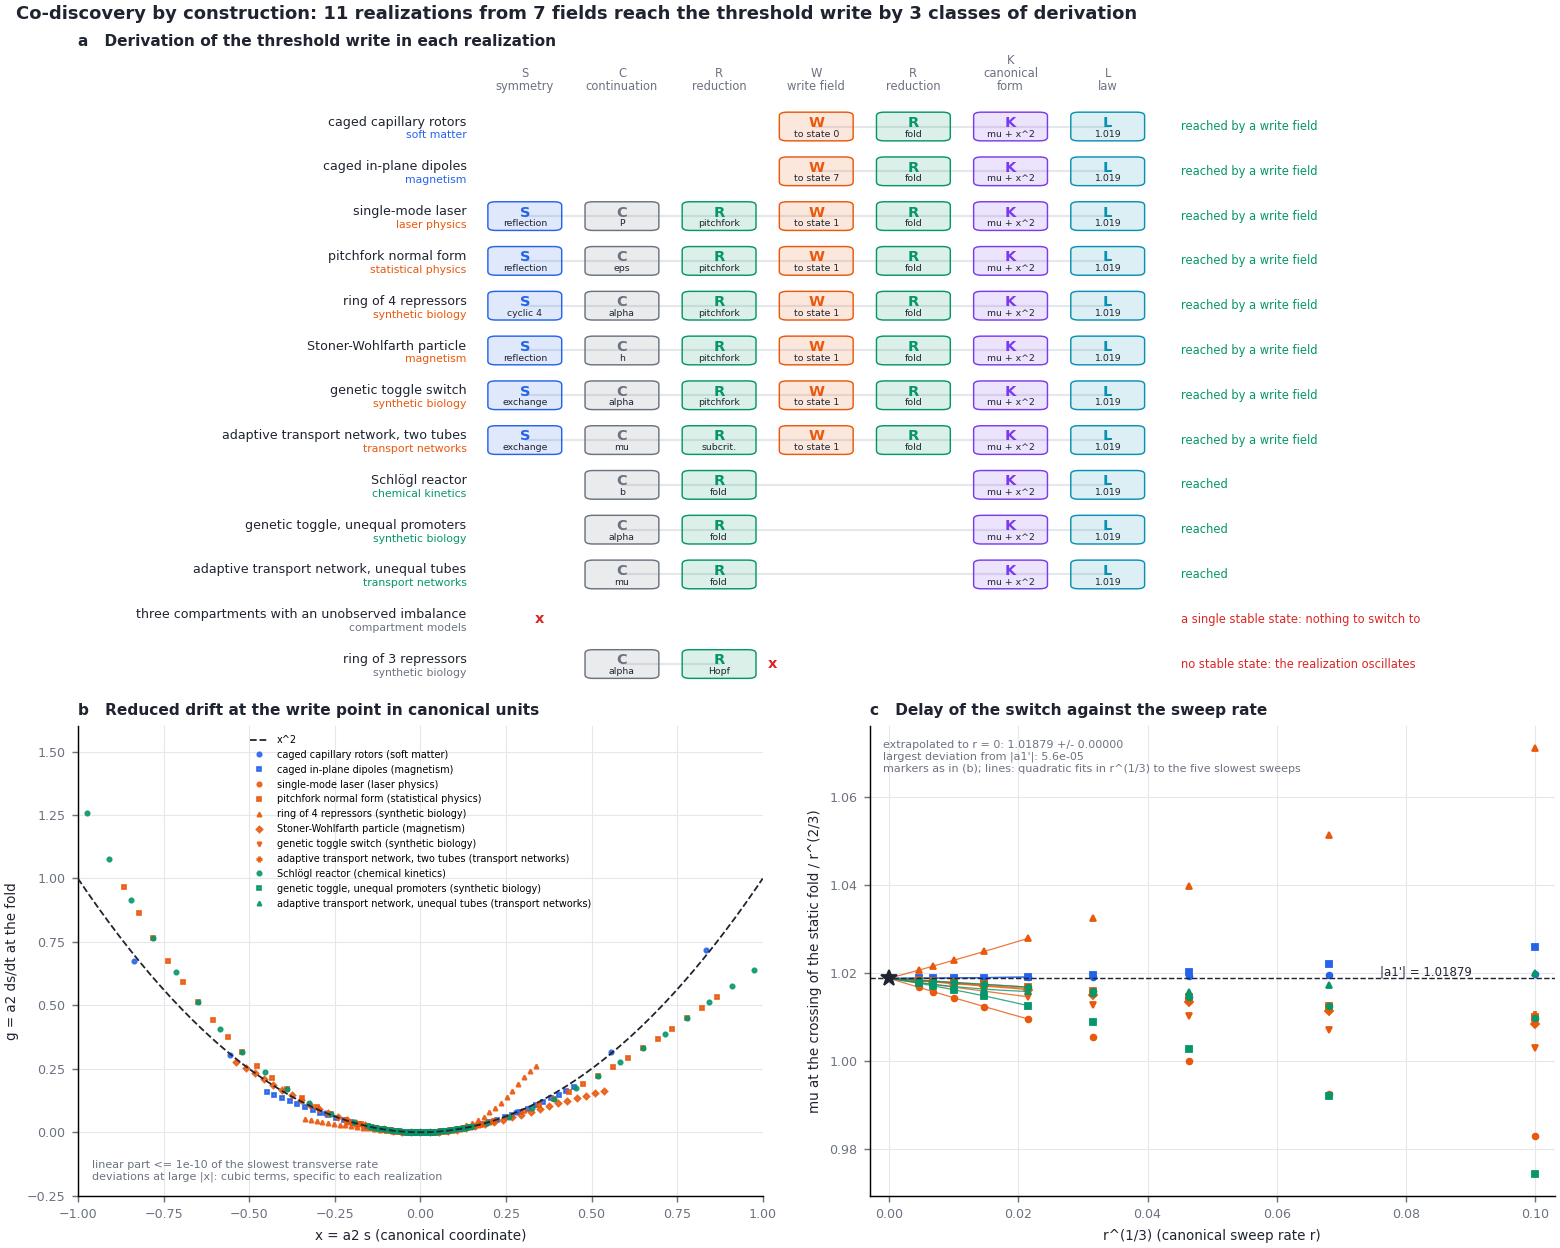
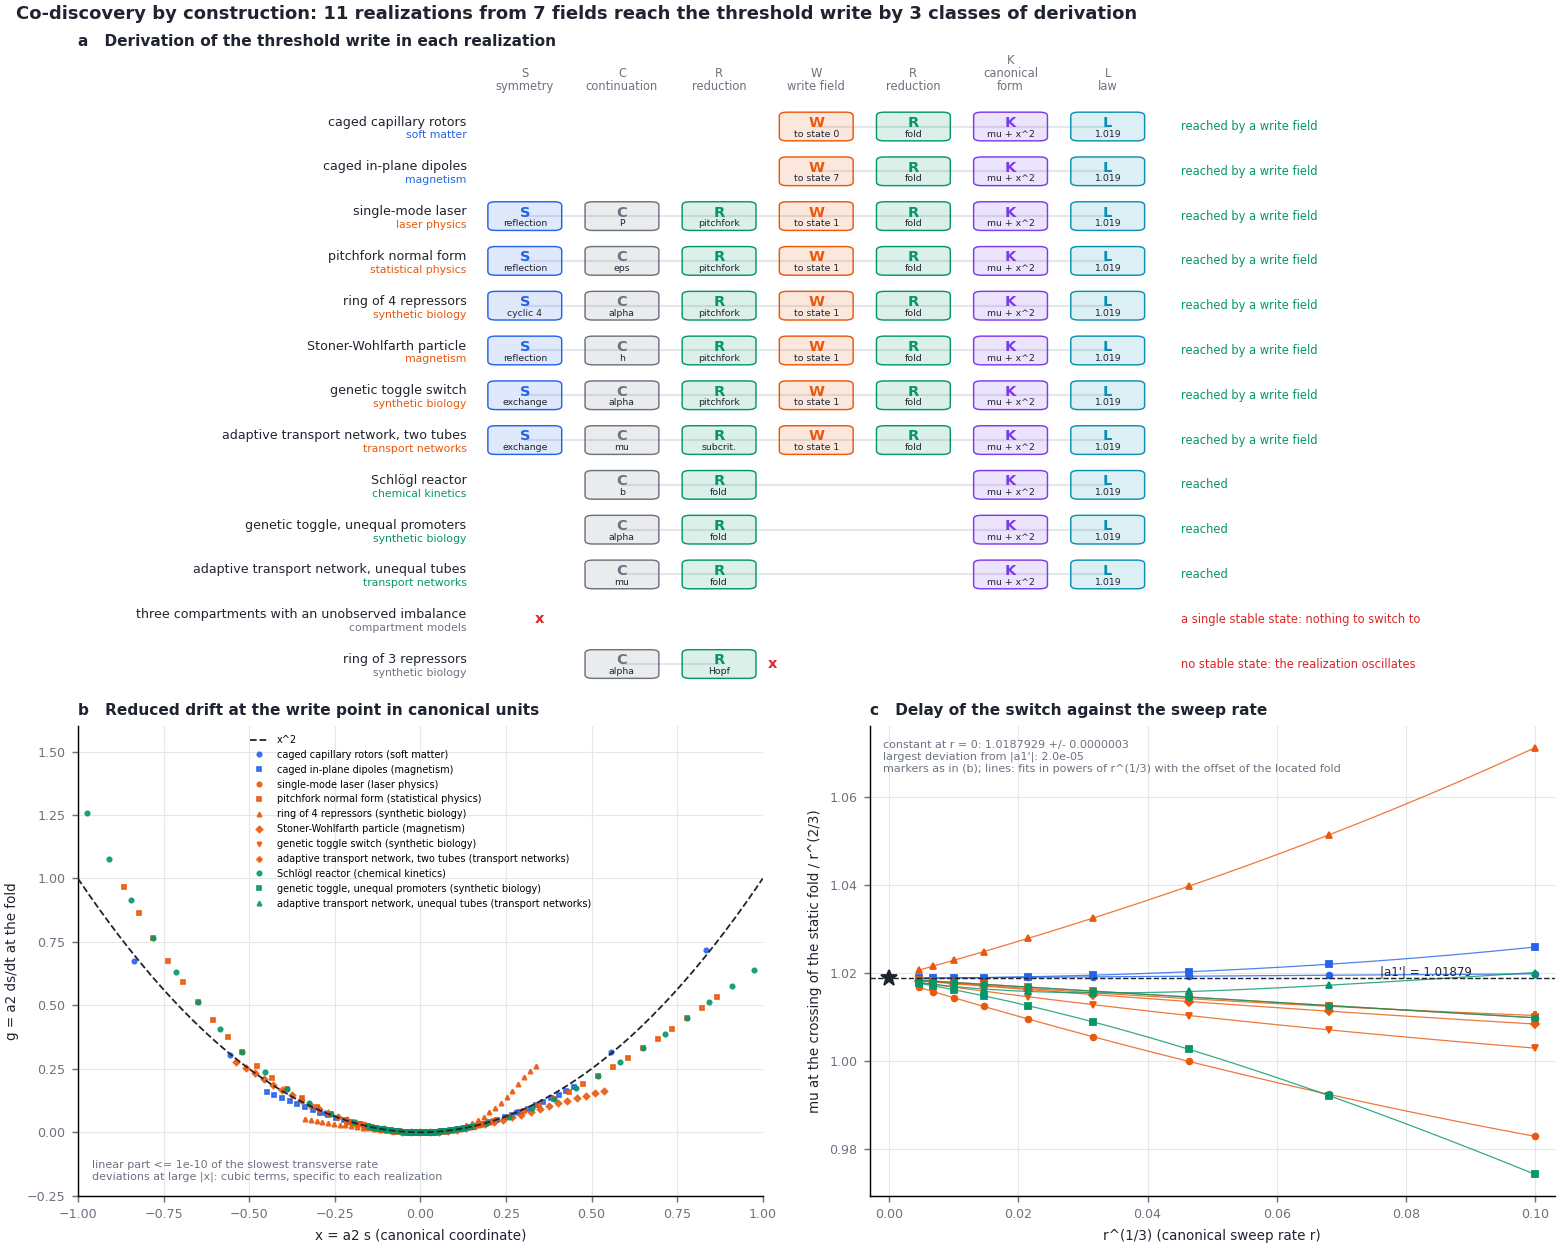
Fit the delay law with the offset of the located fold; record swept writes with 25,600 trajectories
An error delta of the located fold adds delta r^(-2/3) to the measured delay constant. For the capillary
rotors (delta = 9e-9) this term dominated the slowest sweeps, and the extrapolation gave 1.0195 +- 0.0001
against |a1'| = 1.0188. The constant is now fitted over all rates by a polynomial of fourth order in
r^(1/3) with this term; its uncertainty is the largest of the change at one order less, the largest
change when one rate is left out, and 5e-7. The curvature at the fold uses Richardson's extrapolation:
with one step its error moved the constant of a quintic drift by 9e-7. All fifteen realizations of the
record now lie within 0.3 of their uncertainty.

The swept-write constants of the record use 25,600 trajectories (standard error 0.014 instead of 0.11);
the 1.04 of the Schloegl reactor at 400 trajectories was a fluctuation (1.327). The page data also gives
the frequencies with which an observable moves in its closure.

diff --git a/fieldbridge/memory/codiscovery.py b/fieldbridge/memory/codiscovery.py
@@ -65,6 +65,7 @@ from .identity import Realization
 LAW_CONSTANT = pi ** 0.25
 DELAY_CONSTANT = 1.0187929716474710  # -a1', the first zero of Ai' (checked against scipy.special.ai_zeros in the tests)
 DELAY_RATES = tuple(float(r) for r in 10.0 ** -np.arange(3.0, 7.01, 0.5))
+DELAY_FLOOR = 5e-7  # accuracy of the delay constant set by the finite differences of the canonical scale and the solver
 DELAY_SOLVER = "LSODA"  # switches to an implicit method where the transverse modes are stiff (rotor patches)
 LETTERS = {"S": "symmetry", "C": "continuation", "W": "write field", "R": "reduction", "U": "unfolding",
            "K": "canonical form", "L": "law"}
@@ -408,9 +409,15 @@ def canonical_fold(real: Realization, param: str, q_f: np.ndarray, p_f: float, n
     over = {param: p_f}
     vec, w = np.asarray(nf["mode"], float), np.asarray(nf["left_mode"], float)
     h = 1e-3 * an.base_length(real)
-    d2 = (real.F(_shift(real, q_f, h * vec), **over) + real.F(_shift(real, q_f, -h * vec), **over)
-          - 2 * real.F(q_f, **over)) / h ** 2
-    a2 = 0.5 * float(w @ d2)
+
+    def curvature(step: float) -> float:
+        d2 = (real.F(_shift(real, q_f, step * vec), **over) + real.F(_shift(real, q_f, -step * vec), **over)
+              - 2 * real.F(q_f, **over)) / step ** 2
+        return 0.5 * float(w @ d2)
+
+    # two steps and Richardson's extrapolation: the error of the second difference is of fourth order in h. With one
+    # step its relative error, 3e-6 for a quintic drift, moved the delay constant by a third of that.
+    a2 = (4.0 * curvature(h / 2) - curvature(h)) / 3.0
     J = an.jacobian(real, q_f, over)
     a1 = float(w @ J @ vec)
     rates = np.sort(np.abs(np.linalg.eigvals(J).real))
@@ -430,9 +437,14 @@ def fold_delay_law(real: Realization, param: str, q_f: np.ndarray, p_f: float, c
                    rates=DELAY_RATES, tau: float = 5.0) -> Dict[str, object]:
     """Sweep the parameter through the fold without noise, p = p_f + r t / (a2 b), and record the time t0 at which the
     state crosses the position of the static fold (s = 0). In canonical units mu = r t, and the crossing is at
-    mu = |a1'| r^(2/3) plus corrections in powers of r^(1/3). The constant t0 r^(1/3) is extrapolated to r = 0 by a
-    quadratic in r^(1/3) over the five slowest rates; its uncertainty is the difference from a linear fit to the
-    three slowest. Each sweep starts on the occupied branch at mu = -tau r^(2/3)."""
+    mu = |a1'| r^(2/3) plus corrections in powers of r^(1/3). An error delta of the located fold, in canonical units,
+    shifts every crossing by the same mu and adds delta r^(-2/3) to t0 r^(1/3): a term that grows at slow rates and,
+    left out, biases an extrapolation to r = 0 (for the rotor patches by 7e-4 at delta = 9e-9).
+
+    The constant is therefore fitted over all rates by C + c1 e + ... + c4 e^4 + delta e^(-2), e = r^(1/3), with
+    fewer powers when fewer rates are available. Its uncertainty is the largest of three numbers: the difference
+    from the fit of one order less, the largest change when one rate is left out, and DELAY_FLOOR, the accuracy of
+    the canonical scale a2 b and of the integration. Each sweep starts on the occupied branch at mu = -tau r^(2/3)."""
     from scipy.integrate import solve_ivp
     vec, w = np.asarray(canon["mode"], float), np.asarray(canon["left_mode"], float)
     a2, k = canon["a2"], canon["mu_per_unit_parameter"]
@@ -462,10 +474,19 @@ def fold_delay_law(real: Realization, param: str, q_f: np.ndarray, p_f: float, c
     if len(rows) >= 5:
         e = np.array([row["rate"] for row in rows]) ** (1 / 3)
         c = np.array([row["constant"] for row in rows])
-        i5, i3 = np.argsort(e)[:5], np.argsort(e)[:3]
-        quad, lin = np.polyfit(e[i5], c[i5], 2), np.polyfit(e[i3], c[i3], 1)
-        out.update(constant=float(quad[2]), stderr=float(abs(quad[2] - lin[1])), correction_slope=float(quad[1]),
-                   fit=[float(quad[2]), float(quad[1]), float(quad[0])])
+
+        def fit(powers, keep=slice(None)):
+            A = np.array([e[keep] ** p for p in powers]).T
+            return dict(zip(powers, np.linalg.lstsq(A, c[keep], rcond=None)[0]))
+
+        order = int(min(4, len(rows) - 4))                       # at least two rates more than parameters
+        powers = tuple(range(order + 1)) + (-2,)
+        best, lower = fit(powers), fit(tuple(range(order)) + (-2,))
+        others = [fit(powers, np.arange(len(rows)) != i)[0] for i in range(len(rows))]
+        stderr = max(abs(best[0] - lower[0]), max(abs(v - best[0]) for v in others), DELAY_FLOOR)
+        out.update(constant=float(best[0]), stderr=float(stderr), correction_slope=float(best[1]),
+                   fold_offset=float(best[-2]), fit=[float(best[0]), float(best[1]), float(best.get(2, 0.0))],
+                   fit_terms={"powers": [int(k) for k in best], "coefficients": [float(v) for v in best.values()]})
     return out
 
 
@@ -620,7 +641,7 @@ def codiscover(reals: List[Realization], rng, target: str = "symmetric-write", c
         summary.update(linear_part_max=max((c["linear_part"] for c in canon), default=None),
                        c2_range=[min((c["c2"] for c in canon), default=None), max((c["c2"] for c in canon), default=None)],
                        rates=list(DELAY_RATES) if check_law else [])
-        floor = 1e-5  # integration tolerance and extrapolation
+        floor = DELAY_FLOOR  # already contained in the uncertainty of each constant
     else:
         from .phase_locking import K_REL
         ratios: Dict[str, List[str]] = {}
@@ -651,7 +672,7 @@ def markdown(report: Dict[str, object]) -> str:
     key = s.get("target_key", "symmetric-write")
     info = TARGET_INFO[key]
     classes = s["derivation_classes"]
-    digits = {"symmetric-write": 3, "threshold-write": 5}.get(key, 4)
+    digits = {"symmetric-write": 3, "threshold-write": 7}.get(key, 4)
     lines = [f"# Co-discovery by construction: {info['title']}", "",
              f"Target: {s['target']}. Reached in {s['reached']} realizations from {len(s['fields_reached'])} fields "
              f"({', '.join(s['fields_reached'])}) by {len(classes)} classes of derivation; obstructed in "
@@ -710,10 +731,10 @@ def markdown(report: Dict[str, object]) -> str:
                      f"slowest transverse rate; quadratic coefficient of the slow-manifold drift c2 = "
                      f"{s['c2_range'][0]:.4f} to {s['c2_range'][1]:.4f} (1 by the choice of units).")
         if "law_constant_mean" in s:
-            lines.append(f"- Delay of the switch: crossing of the static fold at mu = C r^(2/3), extrapolated to r = 0 "
-                         f"from {len(s['rates'])} rates per realization: C = {s['law_constant_mean']:.5f} ± "
-                         f"{s['law_constant_stderr']:.5f}; |a1'| = {s['law_constant_expected']:.5f}; largest deviation "
-                         f"{s['law_constant_max_deviation']:.1e}.")
+            lines.append(f"- Delay of the switch: crossing of the static fold at mu = C r^(2/3), fitted over "
+                         f"{len(s['rates'])} rates per realization with the offset of the located fold: C = "
+                         f"{s['law_constant_mean']:.7f} ± {s['law_constant_stderr']:.7f}; |a1'| = "
+                         f"{s['law_constant_expected']:.7f}; largest deviation {s['law_constant_max_deviation']:.1e}.")
     lines += ["", "## Letters and the slots they act on", "", "| letter | transformation | slots | action |",
               "|---|---|---|---|"]
     for k in info["letters"]:

diff --git a/fieldbridge/site_data.py b/fieldbridge/site_data.py
@@ -199,8 +199,9 @@ def resolve(root: Path = ROOT, only: Optional[Iterable[str]] = None) -> Dict[str
 
 
 # ------------------------------------------------------------------------------------------------ unitary
-def observable_closure(H: np.ndarray, O: np.ndarray, tol: float = 1e-9, max_dim: int = 256) -> int:
-    """Chapter 11: the dimension of the smallest span of operators that contains O and is invariant under i[H, .]."""
+def closure_basis(H: np.ndarray, O: np.ndarray, tol: float = 1e-9, max_dim: int = 256) -> List[np.ndarray]:
+    """Chapter 11: an orthonormal basis of the smallest span of operators that contains O and is invariant under
+    i[H, .]."""
     basis: List[np.ndarray] = []
 
     def add(A: np.ndarray) -> None:
@@ -217,7 +218,29 @@ def observable_closure(H: np.ndarray, O: np.ndarray, tol: float = 1e-9, max_dim:
     while i < len(basis) and len(basis) <= max_dim:
         add(1j * (H @ basis[i] - basis[i] @ H))
         i += 1
-    return len(basis)
+    return basis
+
+
+def observable_closure(H: np.ndarray, O: np.ndarray, tol: float = 1e-9, max_dim: int = 256) -> int:
+    """The dimension of the closure of O under i[H, .]."""
+    return len(closure_basis(H, O, tol, max_dim))
+
+
+def observable_frequencies(H: np.ndarray, O: np.ndarray, tol: float = 1e-7) -> List[float]:
+    """The frequencies with which the observable can move: i[H, .] restricted to the closure of O is antisymmetric,
+    and its eigenvalues are 0 and the pairs +-i omega. One frequency is the signal of a rotating three-vector,
+    whatever algebra H and O generate; several frequencies are not one rotation."""
+    basis = closure_basis(H, O)
+    if len(basis) < 2:
+        return []
+    M = np.array([[np.vdot(a, 1j * (H @ b - b @ H)) for b in basis] for a in basis])
+    w = np.linalg.eigvalsh(1j * M)
+    scale = max(1.0, float(np.max(np.abs(w))))
+    out: List[float] = []
+    for v in sorted(float(x) for x in w if x > tol * scale):
+        if not out or v - out[-1] > tol * scale:
+            out.append(v)
+    return out
 
 
 def observable_frame(canon: Dict) -> List[np.ndarray]:
@@ -275,9 +298,11 @@ def unitary_record(node: Dict, parent: Optional[Dict] = None) -> Dict:
         frame, j_top, frame_from = parent["_frame"], parent["engine"]["j_top"], parent["id"]
     cause = ql._single_term_cause(real, V) if row["status"] != "reached" and len(real.terms) > 1 else None
     sig = row.get("signature", {})
+    freqs = observable_frequencies(Hs, Os)
     facts = {"status": row["status"], "word": row["word"], "dim": int(row["algebra_dimension"]),
-             "closure": closure, "carrier": real.carrier.description, "hilbert": int(real.carrier.dim),
-             "sector": int(Hs.shape[0])}
+             "closure": closure, "frequencies": len(freqs), "frequencies_text": NUMBER_WORDS.get(len(freqs), str(len(freqs))),
+             "frequency_list": [float(f"{f:.6g}") for f in freqs[:6]],
+             "carrier": real.carrier.description, "hilbert": int(real.carrier.dim), "sector": int(Hs.shape[0])}
     if row["status"] == "reached":
         facts.update(rate=float(sig["rate"]), theta=float(sig["theta_deg"]),
                      rep=ql._rep(row["representation"]).replace(" x ", " × ").replace("j=", "j = "),
@@ -384,9 +409,14 @@ def operator_html(text: str) -> str:
 
 
 # ------------------------------------------------------------------------------------------------ dissipative
+# trajectories of the swept-write check when the law constants of the record are computed: the standard error of the
+# constant is then 0.014, 1% of pi^(1/4); with the 400 of a quick check it is 0.11
+LAW_TRAJECTORIES = 25600
+
+
 def _derive(target: str, real, nid: str, law: bool) -> Dict:
     from .memory import codiscovery
-    return codiscovery.TARGETS[target](real, _rng(nid, target), check_law=law)
+    return codiscovery.TARGETS[target](real, _rng(nid, target), check_law=law, n_traj=LAW_TRAJECTORIES)
 
 
 def _row_facts(prefix: str, row: Dict) -> Dict:
@@ -871,7 +901,7 @@ def _merge_laws(rec: Dict, record: Dict) -> Optional[str]:
 # ------------------------------------------------------------------------------------------------ build
 def _targets_for(node: Dict) -> List[str]:
     path = node["path"]
-    # the oscillators of Module 9 and the ring of three repressors: the realizations in which the tutorial derives
+    # the oscillators of Module 11 and the ring of three repressors: the realizations in which the tutorial derives
     # phase locking
     oscill = "oscillators" in path or node["id"] == "repressilator"
     if node["family"] != "dissipative":

diff --git a/fieldbridge/memory/visual.py b/fieldbridge/memory/visual.py
@@ -534,18 +534,20 @@ def _law_panel_fold(c, reached, class_color, marker, s):
         emax = max(emax, float(e.max()))
         col = class_color[r["class"]]
         c.plot(e, v, marker[r["name"]], ms=3.2, color=col, lw=0, label=r["name"])
-        f0, f1, f2 = r["law"]["fit"]
-        ee = np.linspace(0.0, float(np.sort(e)[4]), 60)
-        c.plot(ee, f0 + f1 * ee + f2 * ee ** 2, color=col, lw=0.7, alpha=0.8)
+        terms = r["law"].get("fit_terms")
+        if terms:   # the fitted law over the rates used, with the term of the located fold
+            ee = np.linspace(float(e.min()), float(e.max()), 80)
+            c.plot(ee, sum(k * ee ** float(p) for p, k in zip(terms["powers"], terms["coefficients"])), color=col,
+                   lw=0.7, alpha=0.8)
     c.plot([0.0], [DELAY_CONSTANT], "*", ms=9, color=INK, zorder=5)
     c.axhline(DELAY_CONSTANT, color=INK, lw=0.8, ls="--")
     c.text(0.76 * emax, DELAY_CONSTANT, "|a1'| = 1.01879", fontsize=6.5, color=INK, va="bottom")
     c.set_xlim(-0.003, emax * 1.03)
     c.set_xlabel("r^(1/3) (canonical sweep rate r)")
     c.set_ylabel("mu at the crossing of the static fold / r^(2/3)")
-    c.text(0.02, 0.97, f"extrapolated to r = 0: {s['law_constant_mean']:.5f} +/- {s['law_constant_stderr']:.5f}\n"
+    c.text(0.02, 0.97, f"constant at r = 0: {s['law_constant_mean']:.7f} +/- {s['law_constant_stderr']:.7f}\n"
                        f"largest deviation from |a1'|: {s['law_constant_max_deviation']:.1e}\n"
-                       f"markers as in (b); lines: quadratic fits in r^(1/3) to the five slowest sweeps",
+                       f"markers as in (b); lines: fits in powers of r^(1/3) with the offset of the located fold",
            transform=c.transAxes, fontsize=6.2, color=INK2, va="top")
     _style(c)
 

diff --git a/tests/test_memory_constructor.py b/tests/test_memory_constructor.py
@@ -427,6 +427,21 @@ def test_a_field_writes_the_landau_model_at_the_coercive_field_with_the_airy_del
     assert row["law_constant"]["constant"] == pytest.approx(cd.DELAY_CONSTANT, abs=1e-4)
 
 
+def test_the_delay_constant_is_not_biased_by_the_error_of_the_located_fold():
+    """With the seed of the web page the fold of the capillary rotors is located to 9e-9 in canonical units. The
+    term delta r^(-2/3) then dominates the slowest sweeps; an extrapolation without it gave 1.0195 +- 0.0001."""
+    from fieldbridge import site_data as sd
+    from fieldbridge.memory import codiscovery as cd
+    law = cd.derive_threshold_write(load("colloid_patch"), sd._rng("colloid_patch", "threshold-write"))["law"]
+    assert len(law["rows"]) == 9 and law["fit_terms"]["powers"] == [0, 1, 2, 3, 4, -2]
+    assert abs(law["constant"] - cd.DELAY_CONSTANT) < law["stderr"] <= 1e-6
+    assert 1e-9 < law["fold_offset"] < 1e-7
+    slowest = min(law["rows"], key=lambda r: r["rate"])
+    assert slowest["constant"] - cd.DELAY_CONSTANT > 3e-4   # the slowest sweep alone is off by delta r^(-2/3)
+    assert law["fold_offset"] * slowest["rate"] ** (-2 / 3) == pytest.approx(slowest["constant"] - cd.DELAY_CONSTANT,
+                                                                             rel=0.1)
+
+
 def test_threshold_write_by_the_control_by_a_field_and_its_obstruction():
     from fieldbridge.memory import codiscovery as cd
     rng = np.random.default_rng(1)
